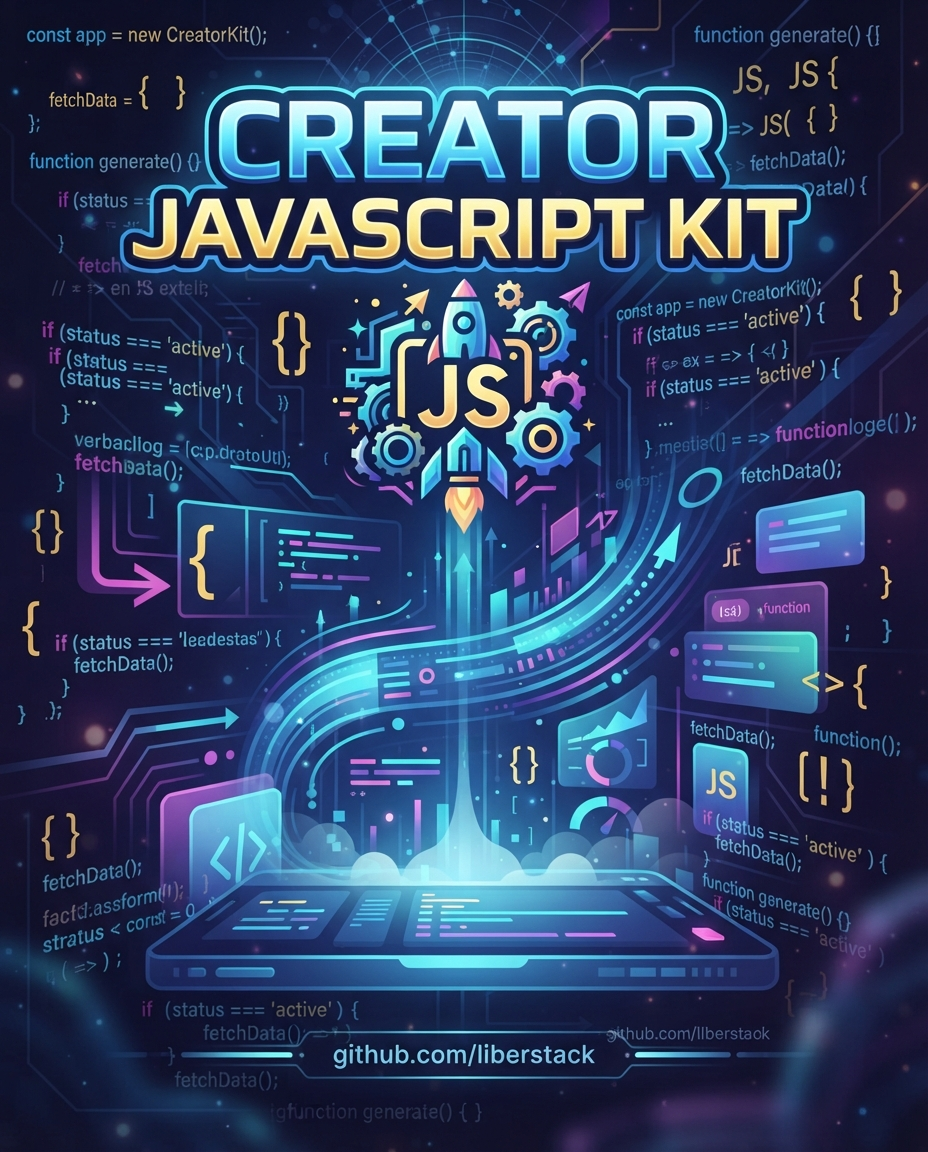
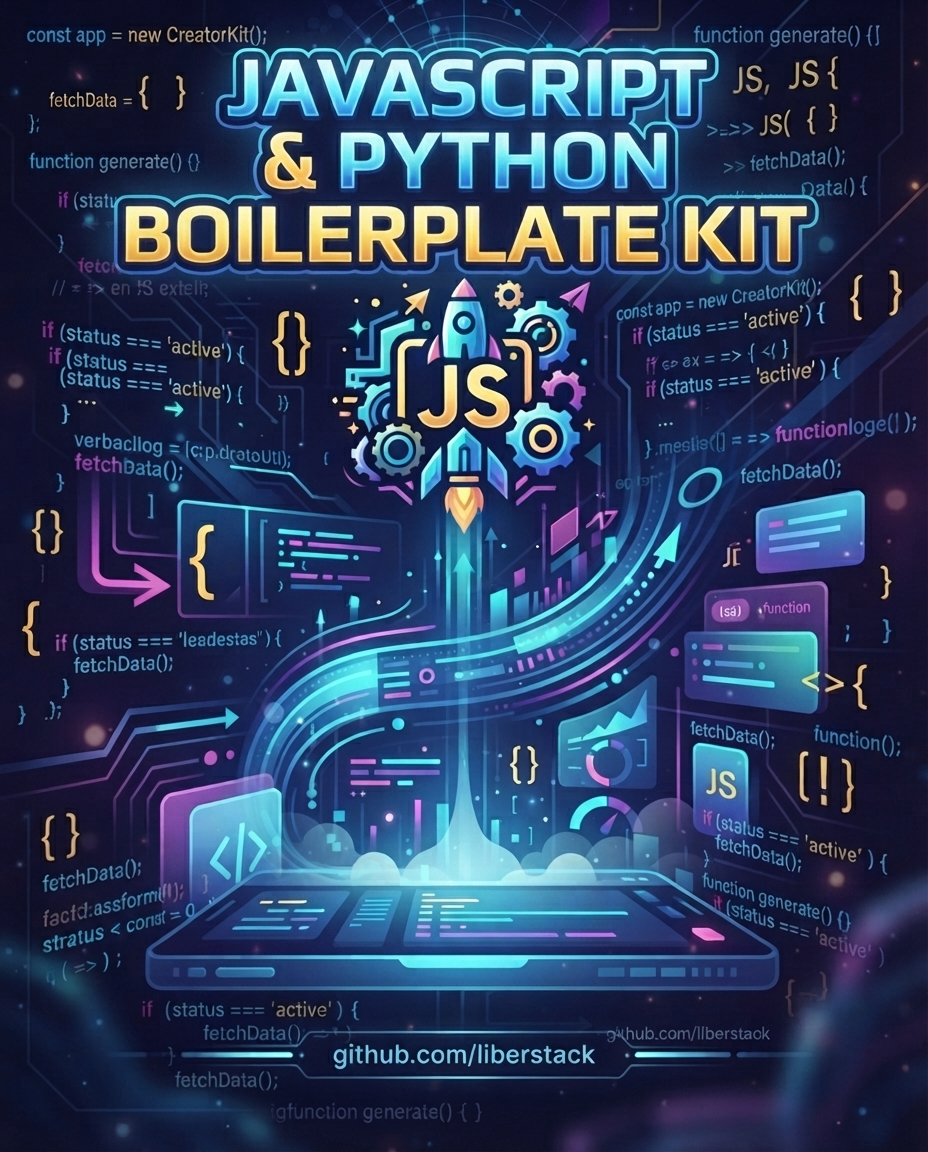
quad

diff --git a/index.html b/index.html
@@ -1065,7 +1065,7 @@
 
   <div class="crossnote markdown-preview">
 
-    <h1 id="creator-javascript-kit">Creator JavaScript Kit</h1>
+    <h1 id="creator-javascript-kit">JavaScript & Python Boilerplate Kit</h1>
 
     <div style="text-align: center;">
       <img style="height: 45%; width: 45%;" src="./assets/kit.png">
@@ -1073,8 +1073,9 @@
 
     <h2 id="sobre-o-kit">Sobre o kit</h2>
 
-    <p>O <strong>Creator JavaScript Kit</strong> é um pacote de materiais para quem quer aprender os fundamentos da Web
-      e começar a criar seus próprios projetos com <strong>HTML, CSS e JavaScript</strong>.
+    <p>O <strong>JavaScript & Python Boilerplate Kit</strong> é um pacote de materiais para quem quer aprender os
+      fundamentos da Web
+      e começar a criar seus próprios projetos com <strong>HTML, CSS, JavaScript e automações em Python</strong>.
 
       O kit reúne conteúdos sobre fundamentos da Web, desenvolvimento frontend e workflow de desenvolvimento com
       <strong>Git e GitHub</strong>, criando uma trilha prática que vai dos primeiros conceitos até a organização e
@@ -1114,7 +1115,7 @@
       <li>Organização dos estilos</li>
     </ul>
 
-    <h3 id="4-javascript">4. JavaScript</h3>
+    <h3 id="4-javascript">4. JavaScript e automações Python</h3>
 
     <ul>
       <li>Fundamentos da linguagem</li>
@@ -1154,9 +1155,11 @@
 
     <h2 id="workflow">Do primeiro código ao primeiro commit</h2>
 
-    <p>O <strong>Creator JavaScript Kit</strong> foi pensado para reunir em um único pacote os conhecimentos essenciais
+    <p>O <strong>JavaScript & Python Boilerplate Kit</strong> foi pensado para reunir em um único pacote os
+      conhecimentos essenciais
       para começar a criar na Web: entender os fundamentos, construir páginas com HTML e CSS, adicionar interatividade
-      com JavaScript e aprender a organizar e versionar seus projetos com Git e GitHub. Um kit digital para
+      com JavaScript, automatizar trabalhos com Python e aprender a versionar seus projetos com Git e GitHub. Um kit
+      digital para
       <strong>aprender, criar, experimentar e construir seu próprio workflow de desenvolvimento
         Web</strong>.
     </p>
